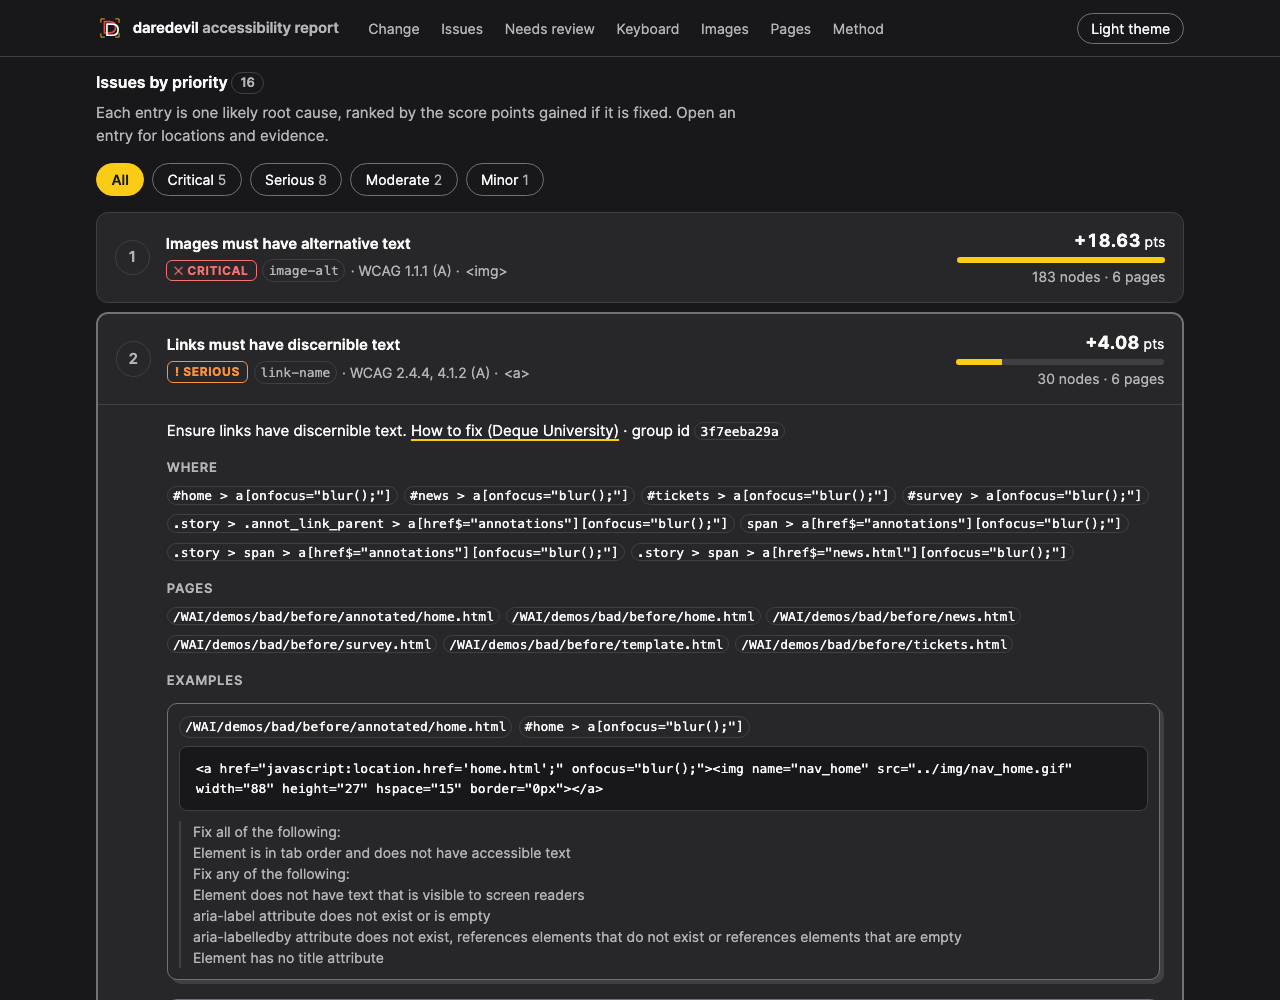
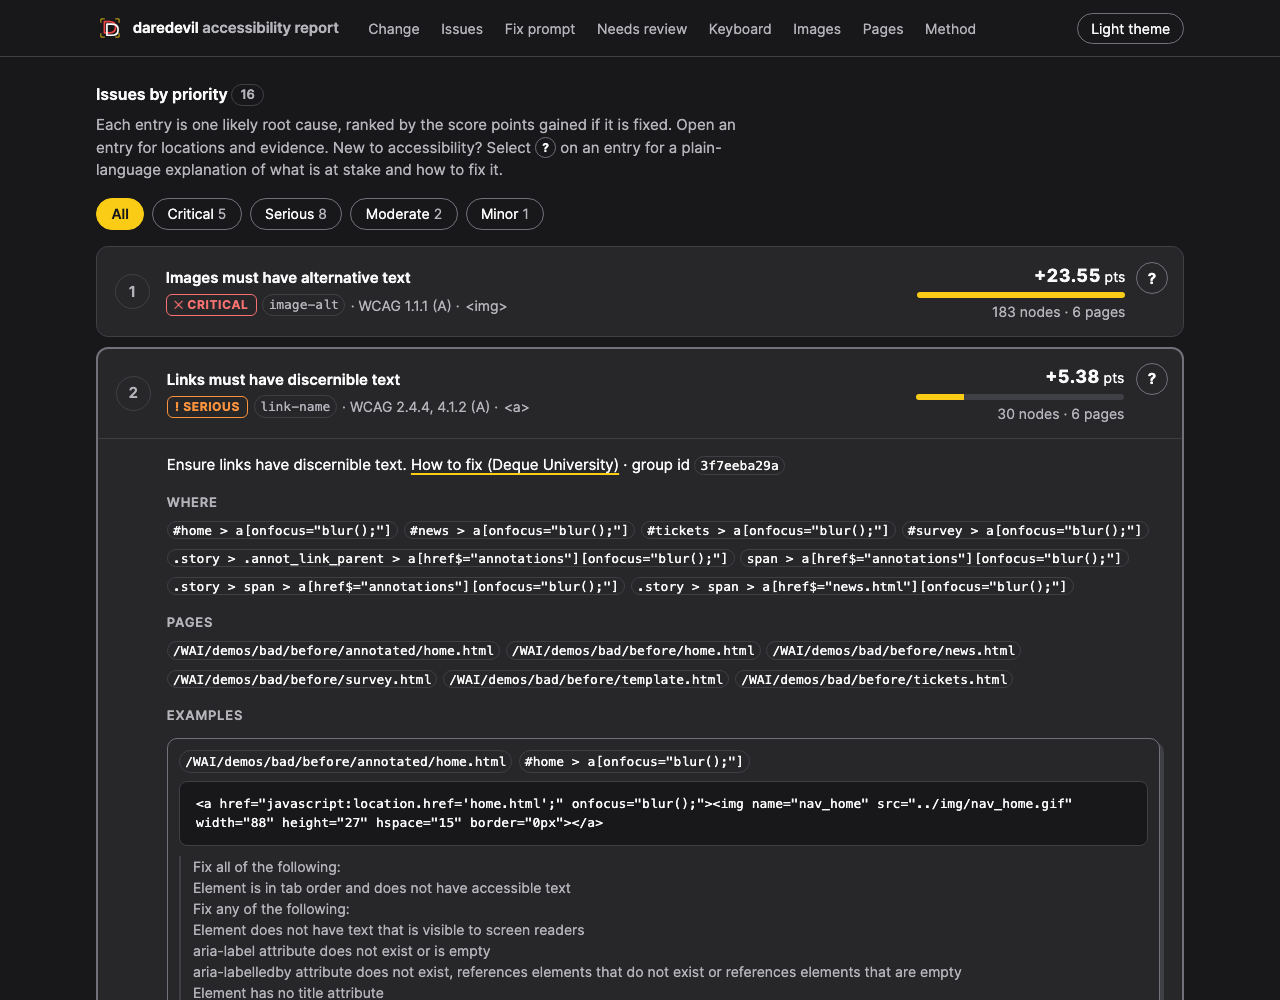
README: explanations feature, scoring v2 samples, layout
- Describe the "?" plain-language explanations in report.html, with a
  new screenshot of the dialog
- Regenerate the W3C demo samples (score, issues, group JSON, diff, CLI
  output) and the report screenshots under scoring v2
- Note that a group on the site's better pages can show a gain of 0
- Layout: add src/wcag.ts, src/fixprompt.ts and src/explain.ts

diff --git a/README.md b/README.md
@@ -43,13 +43,14 @@ npm run -s audit -- https://www.mysite.com/shop --max-pages 25
 ```json
 {
   "reportDir": "reports/www.w3.org_WAI_demos_bad_before/20261118-195027",
-  "score": 45.6,
+  "score": 29.6,
   "delta": 0,
   "comparableWithPrevious": true,
   "pagesScanned": 8,
   "pagesFailed": 0,
   "issueGroups": 16,
-  "violationNodes": 439
+  "violationNodes": 439,
+  "fixPrompt": "reports/www.w3.org_WAI_demos_bad_before/20261118-195027/fix-prompt.md"
 }
 ```
 
@@ -90,7 +91,7 @@ Each run writes to `reports/<site-and-path>/<timestamp>/`:
 | File | Audience | Produced by |
 |---|---|---|
 | `report.json` | machines and AIs: the full structured result | engine |
-| `report.html` | humans: a designed, self-contained report (score panel, filterable issues, AI findings, image gallery…), re-rendered with the agent's files | engine (`render`) |
+| `report.html` | humans: a designed, self-contained report (score panel, filterable issues, a plain-language "?" explanation per defect, AI findings, image gallery…), re-rendered with the agent's files | engine (`render`) |
 | `report.md` | humans who want plain text: score, prioritised issues, evidence | engine |
 | `fix-prompt.md` | an AI coding agent in the site's repo: a ready-to-paste prompt, one merge request per category (also in `report.html`, with a copy button) | engine (`audit` / `render`) |
 | `assets/*.png` | element screenshots of images, for alt-text review | engine |
@@ -110,7 +111,11 @@ Each run writes to `reports/<site-and-path>/<timestamp>/`:
 
 Its design follows the project's [UX guidelines](docs/ux-guidelines.md): the logo's charcoal canvas and yellow corner-bracket focus rings, outlined status badges that pair every colour with an icon and a label, and offset "layer" cards for evidence. It has a light theme too, following the reader's OS setting, with a toggle.
 
-It contains the score panel and breakdown, the agent's summary, the change since the last run, issues by priority (filterable by impact, each expandable to locations and evidence), the AI-assisted findings with their confidence, the undecided items, the keyboard probe, a gallery of image screenshots next to their alt text, and the page list.
+It contains the score panel and breakdown, the agent's summary, the change since the last run, issues by priority (filterable by impact, each expandable to locations and evidence), the AI-assisted findings with their confidence, the fix prompt, the undecided items, the keyboard probe, a gallery of image screenshots next to their alt text, and the page list.
+
+**A teaching tool, too.** Every defect has a **?** button that opens a plain-language explanation written for developers new to accessibility: what the defect is, what is at stake for real people (what a screen reader announces, what a keyboard user cannot do), who is affected, an everyday analogy, how to fix it with before/after code, and the WCAG criterion in plain words. The explanations come from a library with one entry for each of the 97 axe rules daredevil runs ([`assets/explanations.json`](assets/explanations.json)), written by the daredevil agent; a test fails if an axe-core upgrade adds a rule without one. The buttons also appear next to undecided items and in the change-since-last-run lists.
+
+![HTML report: plain-language explanation of a defect](docs/report-html-explain.png)
 
 
 The samples below are real output from auditing W3C's [Before and After Demonstration](https://www.w3.org/WAI/demos/bad/), a site built to be inaccessible on purpose, with a repaired "after" version (8 pages each).
@@ -118,18 +123,20 @@ The samples below are real output from auditing W3C's [Before and After Demonstr
 ### Score (`report.md`)
 
 ```markdown
-## Score: 45.6 / 100
+## Score: 29.6 / 100
 
 | Dimension | Score |
 |---|---:|
-| **Overall (WCAG A+AA)** | **45.6** |
-| Level A | 53.2 |
-| Level AA | 84.3 |
-| Perceivable | 63.3 |
-| Operable | 79.5 |
-| Understandable | 96.3 |
-| Robust | 88.1 |
-| Best practices (not in overall) | 88.7 |
+| **Overall (WCAG A+AA)** | **29.6** |
+| Level A | 36.7 |
+| Level AA | 80.6 |
+| Perceivable | 49.8 |
+| Operable | 75.4 |
+| Understandable | 95.1 |
+| Robust | 82.9 |
+| Best practices (not in overall) | 87.4 |
+
+Scores are the mean of the 5 lowest-scoring of 8 pages (mean over all pages: 45.6).
 
 Violations: **439 nodes in 16 root-cause groups** (critical 201, serious 71, moderate 166, minor 1).
 Needs review: 25 nodes in 7 groups.
@@ -141,13 +148,15 @@ Needs review: 25 nodes in 7 groups.
 
 | # | Gain | Impact | Rule | WCAG | Root cause | Nodes | Pages |
 |---:|---:|---|---|---|---|---:|---:|
-| 1 | +18.63 | critical | image-alt | 1.1.1 (A) | `<img>` | 183 | 6 |
-| 2 | +4.08 | serious | link-name | 2.4.4, 4.1.2 (A) | `<a>` | 30 | 6 |
-| 3 | +2.74 | critical | select-name | 4.1.2 (A) | `<select>` | 7 | 6 |
-| 4 | +2.38 | serious | target-size | 2.5.8 (AA) | `<a.page>` | 4 | 2 |
-| 5 | +2.12 | serious | target-size | 2.5.8 (AA) | `<a.report>` | 12 | 6 |
-| 6 | +1.25 | serious | color-contrast | 1.4.3 (AA) | `fg #41545d on bg #a9b8bf, 9.8pt (13px) bold` | 6 | 3 |
-| 7 | +1.18 | serious | html-has-lang | 3.1.1 (A) | `page structure` | 6 | 6 |
+| 1 | +23.55 | critical | image-alt | 1.1.1 (A) | `<img>` | 183 | 6 |
+| 2 | +5.38 | serious | link-name | 2.4.4, 4.1.2 (A) | `<a>` | 30 | 6 |
+| 3 | +3.63 | critical | select-name | 4.1.2 (A) | `<select>` | 7 | 6 |
+| 4 | +2.65 | serious | target-size | 2.5.8 (AA) | `<a.report>` | 12 | 6 |
+| 5 | +1.64 | serious | color-contrast | 1.4.3 (AA) | `fg #41545d on bg #a9b8bf, 9.8pt (13px) bold` | 6 | 3 |
+| 6 | +1.52 | serious | html-has-lang | 3.1.1 (A) | `page structure` | 6 | 6 |
+| 7 | +0.65 | serious | color-contrast | 1.4.3 (AA) | `fg #41545d on bg #a9b8bf, 9.0pt (12px) bold` | 6 | 1 |
+
+Gains are measured on the headline score, so a group found only on the site's better pages can show a gain of 0 (here `target-size` on `<a.page>`, on the two report pages): it is still a defect to fix.
 
 Each group then gets a detail section with selector patterns, affected pages, HTML evidence and axe's failure summary:
 
@@ -205,7 +214,7 @@ Every group carries everything a fixing agent needs. Its `id` is stable across r
       "data": { "fgColor": "#41545d", "bgColor": "#a9b8bf", "contrastRatio": 3.88, "expectedContrastRatio": "4.5:1", "fontSize": "9.8pt (13px)", "fontWeight": "bold" }
     }
   ],
-  "estimatedScoreGain": 1.25
+  "estimatedScoreGain": 1.64
 }
 ```
 
@@ -224,20 +233,20 @@ pages[]      per page: score, raw violations, incomplete, passes, keyboard probe
 Comparing W3C's inaccessible demo with its repaired version:
 
 ```markdown
-**Overall: 45.6 → 89.5 (+43.9)**
+**Overall: 29.6 → 88.9 (+59.3)**
 
 > ⚠ page sets differ (8 only in before, 8 only in after); re-run with --same-pages for a strict comparison
 
 | Score | Before | After | Δ |
 |---|---:|---:|---:|
-| overall | 45.6 | 89.5 | +43.9 |
-| level A | 53.2 | 100 | +46.8 |
-| level AA | 84.3 | 89.5 | +5.2 |
-| perceivable | 63.3 | 100 | +36.7 |
-| operable | 79.5 | 89.5 | +10 |
-| understandable | 96.3 | 100 | +3.7 |
-| robust | 88.1 | 100 | +11.9 |
-| best-practice | 88.7 | 87.6 | -1.1 |
+| overall | 29.6 | 88.9 | +59.3 |
+| level A | 36.7 | 100 | +63.3 |
+| level AA | 80.6 | 88.9 | +8.3 |
+| perceivable | 49.8 | 100 | +50.2 |
+| operable | 75.4 | 88.9 | +13.5 |
+| understandable | 95.1 | 100 | +4.9 |
+| robust | 82.9 | 100 | +17.1 |
+| best-practice | 87.4 | 86.7 | -0.7 |
 
 Issue groups: **10 fixed**, **1 new**, 1 changed in size.
 
@@ -414,8 +423,11 @@ src/audit.ts     browser, breadth-first crawl, axe scan, conversion of axe resul
 src/probes.ts    keyboard probe, image inventory and screenshots
 src/group.ts     root-cause signatures and grouping
 src/score.ts     scoring model (bump SCORING_VERSION on any change)
+src/wcag.ts      audited axe tags, WCAG criteria, levels and principles from axe tags
 src/report.ts    report.json assembly, diff, markdown rendering
+src/fixprompt.ts fix-prompt.md: fix categories, one merge request per category
 src/html.ts      HTML report
+src/explain.ts   loads assets/explanations.json, the "?" explanation per axe rule
 src/auth.ts      login session capture and loading, login-page and logout-link detection
 src/consent.ts   cookie-dialog dismissal
 src/brand.ts     logo embedding (assets/logo.svg)
